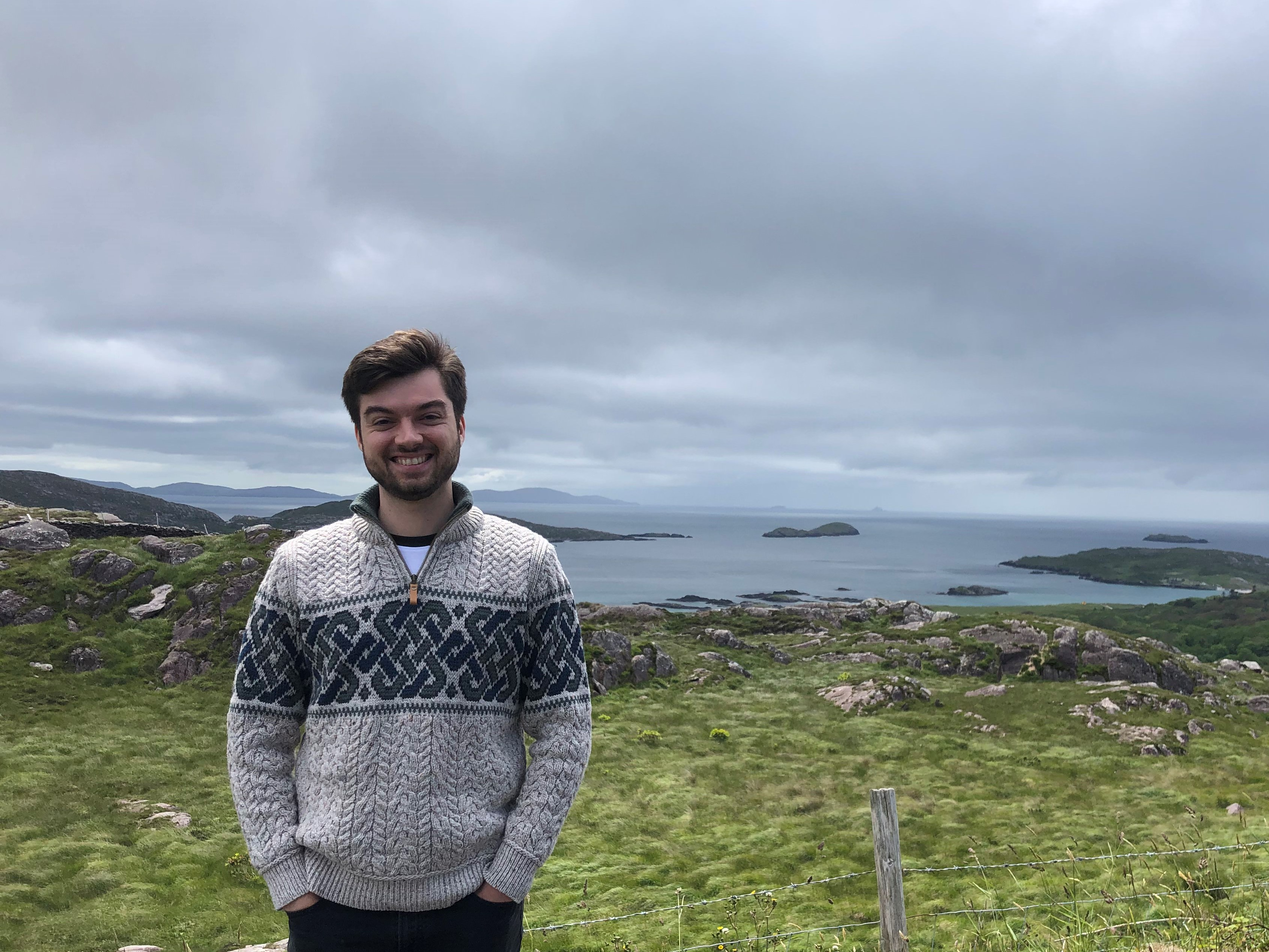
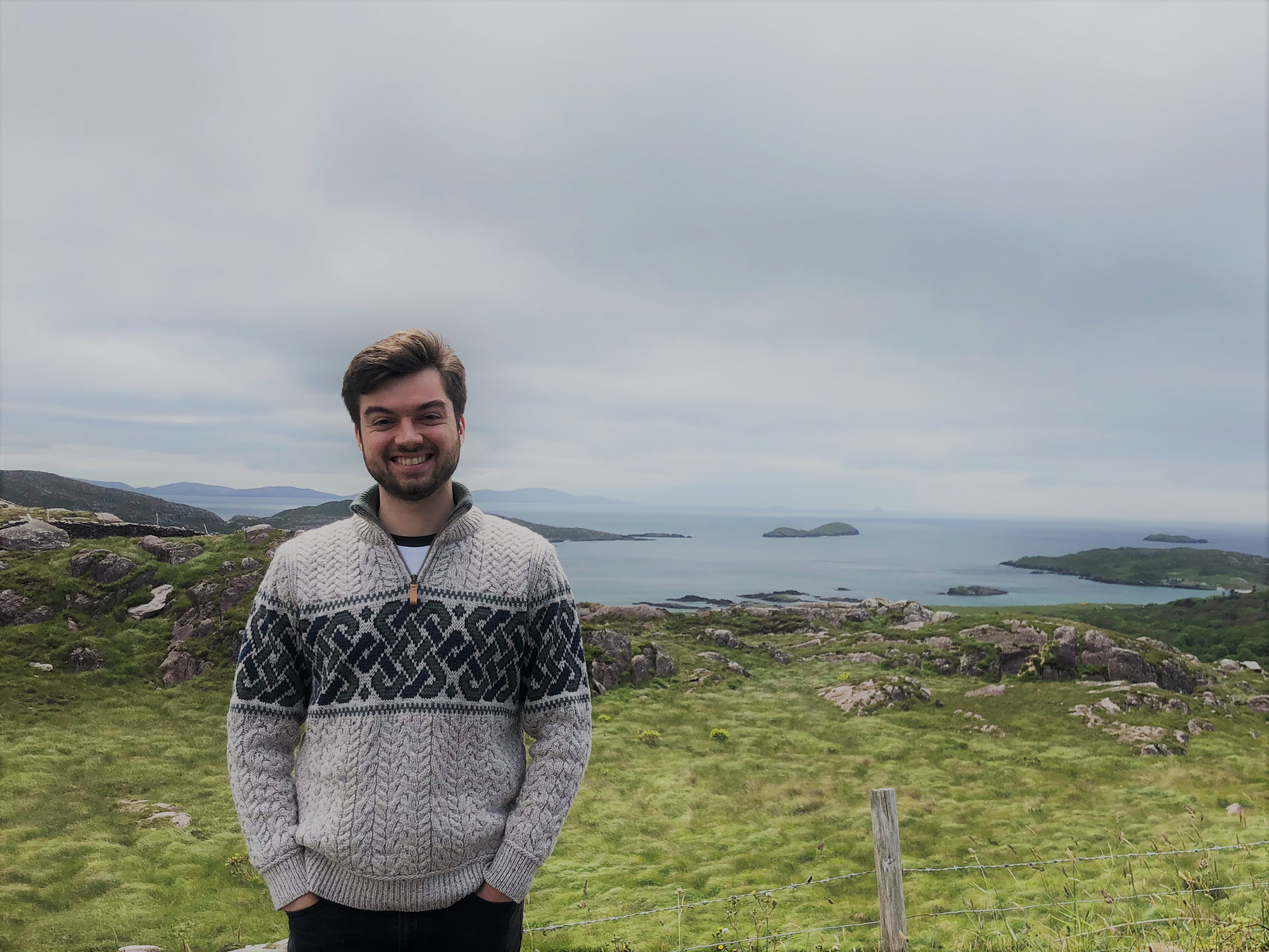
update

diff --git a/index.html b/index.html
@@ -289,6 +289,9 @@ $(document).ready(function () {
         <li>
   <a href="about.html">About</a>
 </li>
+<li>
+  <a href="contact.html">Contact</a>
+</li>
       </ul>
       <ul class="nav navbar-nav navbar-right">
         <li>
@@ -325,16 +328,9 @@ $(document).ready(function () {
 <h2>Matthew Perrotta, MPH</h2>
 <p><link rel="stylesheet" href="styles.css" type="text/css"> <link rel="stylesheet" href="academicons/css/academicons.min.css"/> <link rel="apple-touch-icon" href="/images/JG_transparent.png" ></p>
 <p><br></p>
-<p><img src="images/ireland_sweater.jpg" alt="matt" style="width:65%; border:5px solid"></p>
+<p><img src="images/ireland_sweater_circular.png" alt="matt" style="width:65%"></p>
 <p><br></p>
 <p>Passionate and dedicated public health analyst. Background in epidemiology and biostatistics; skilled in R, SAS, and statistical data analysis. Strong personal interest in understanding spread of zoonotic diseases through the lense of the One Health concept.</p>
-<p><br></p>
-<div id="contact-information" class="section level4">
-<h4>Contact Information</h4>
-<p>Matthew Perrotta</p>
-<p>Email: <a href="mailto:mp3653@columbia.edu">mp3653@columbia.edu</a><br />
-Phone: (617) 276-2023</p>
-</div>
 </div>
 
 <br><br>
